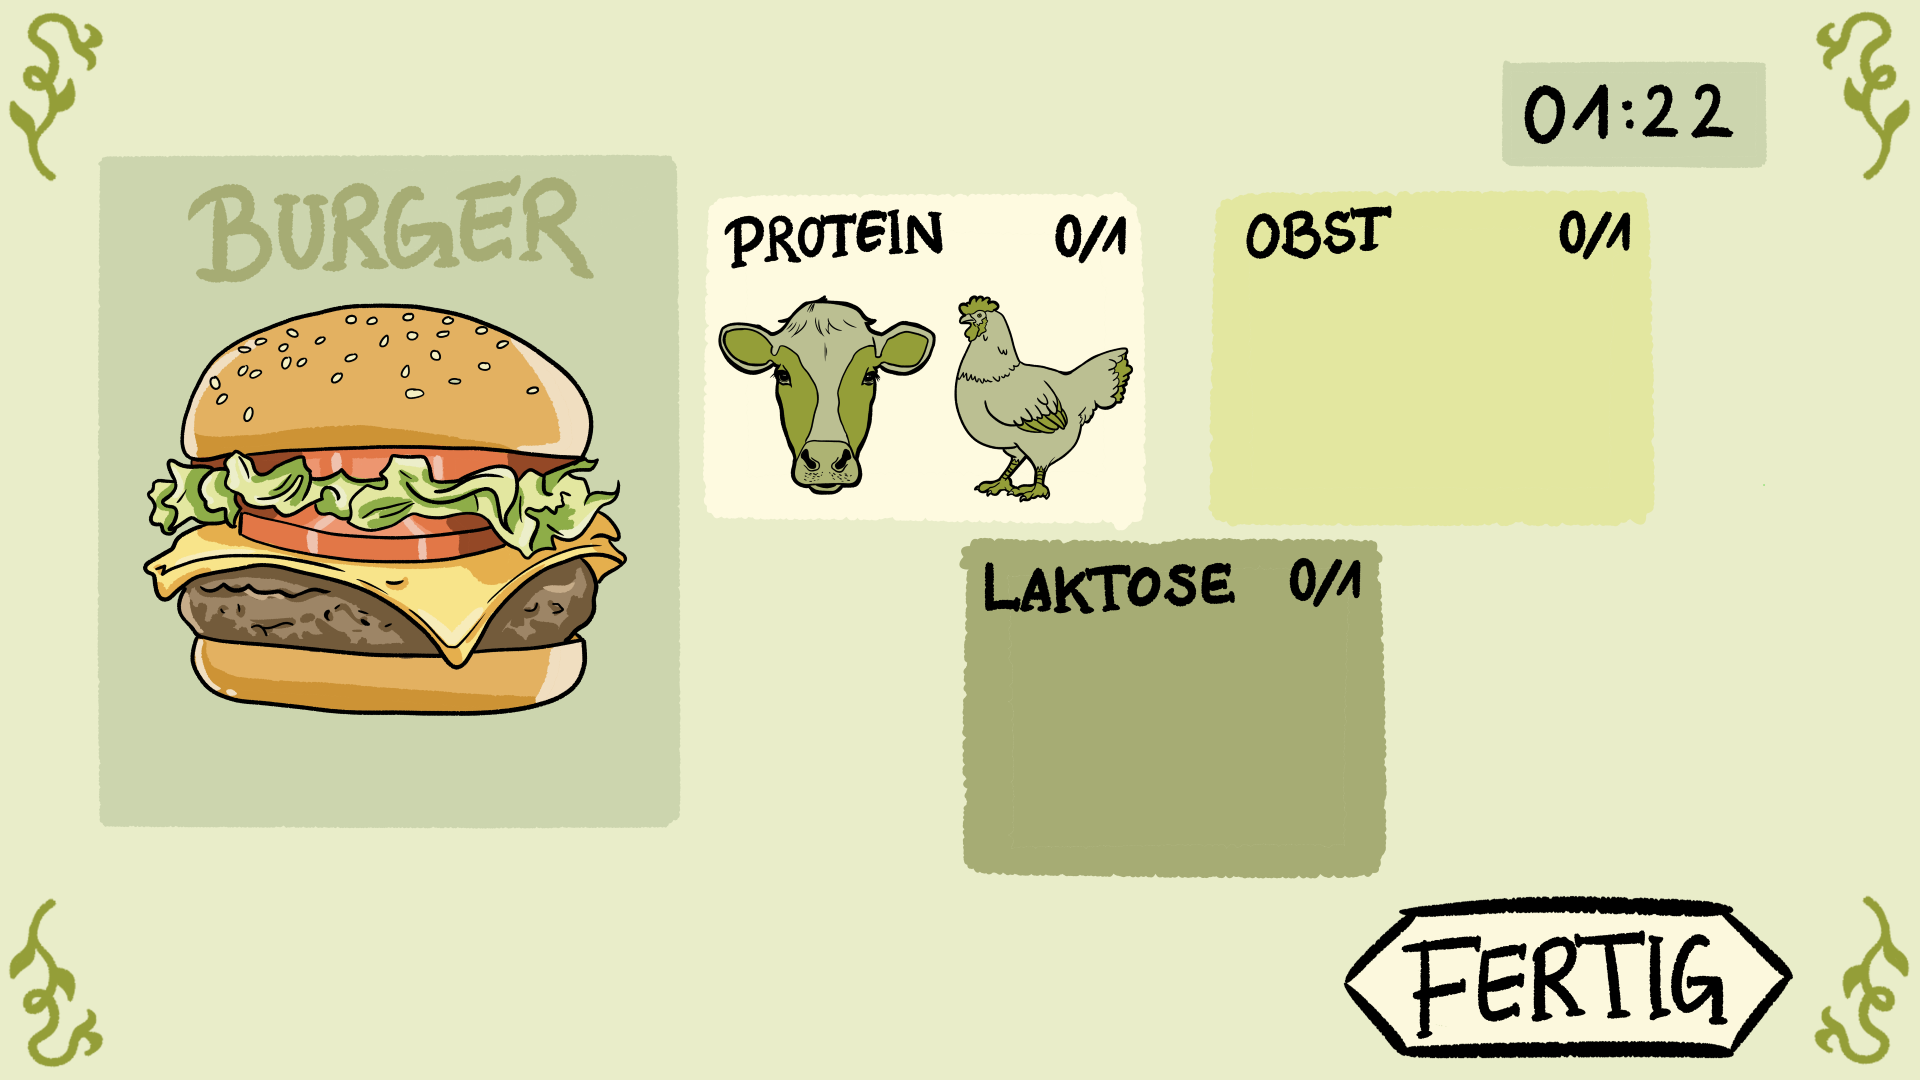
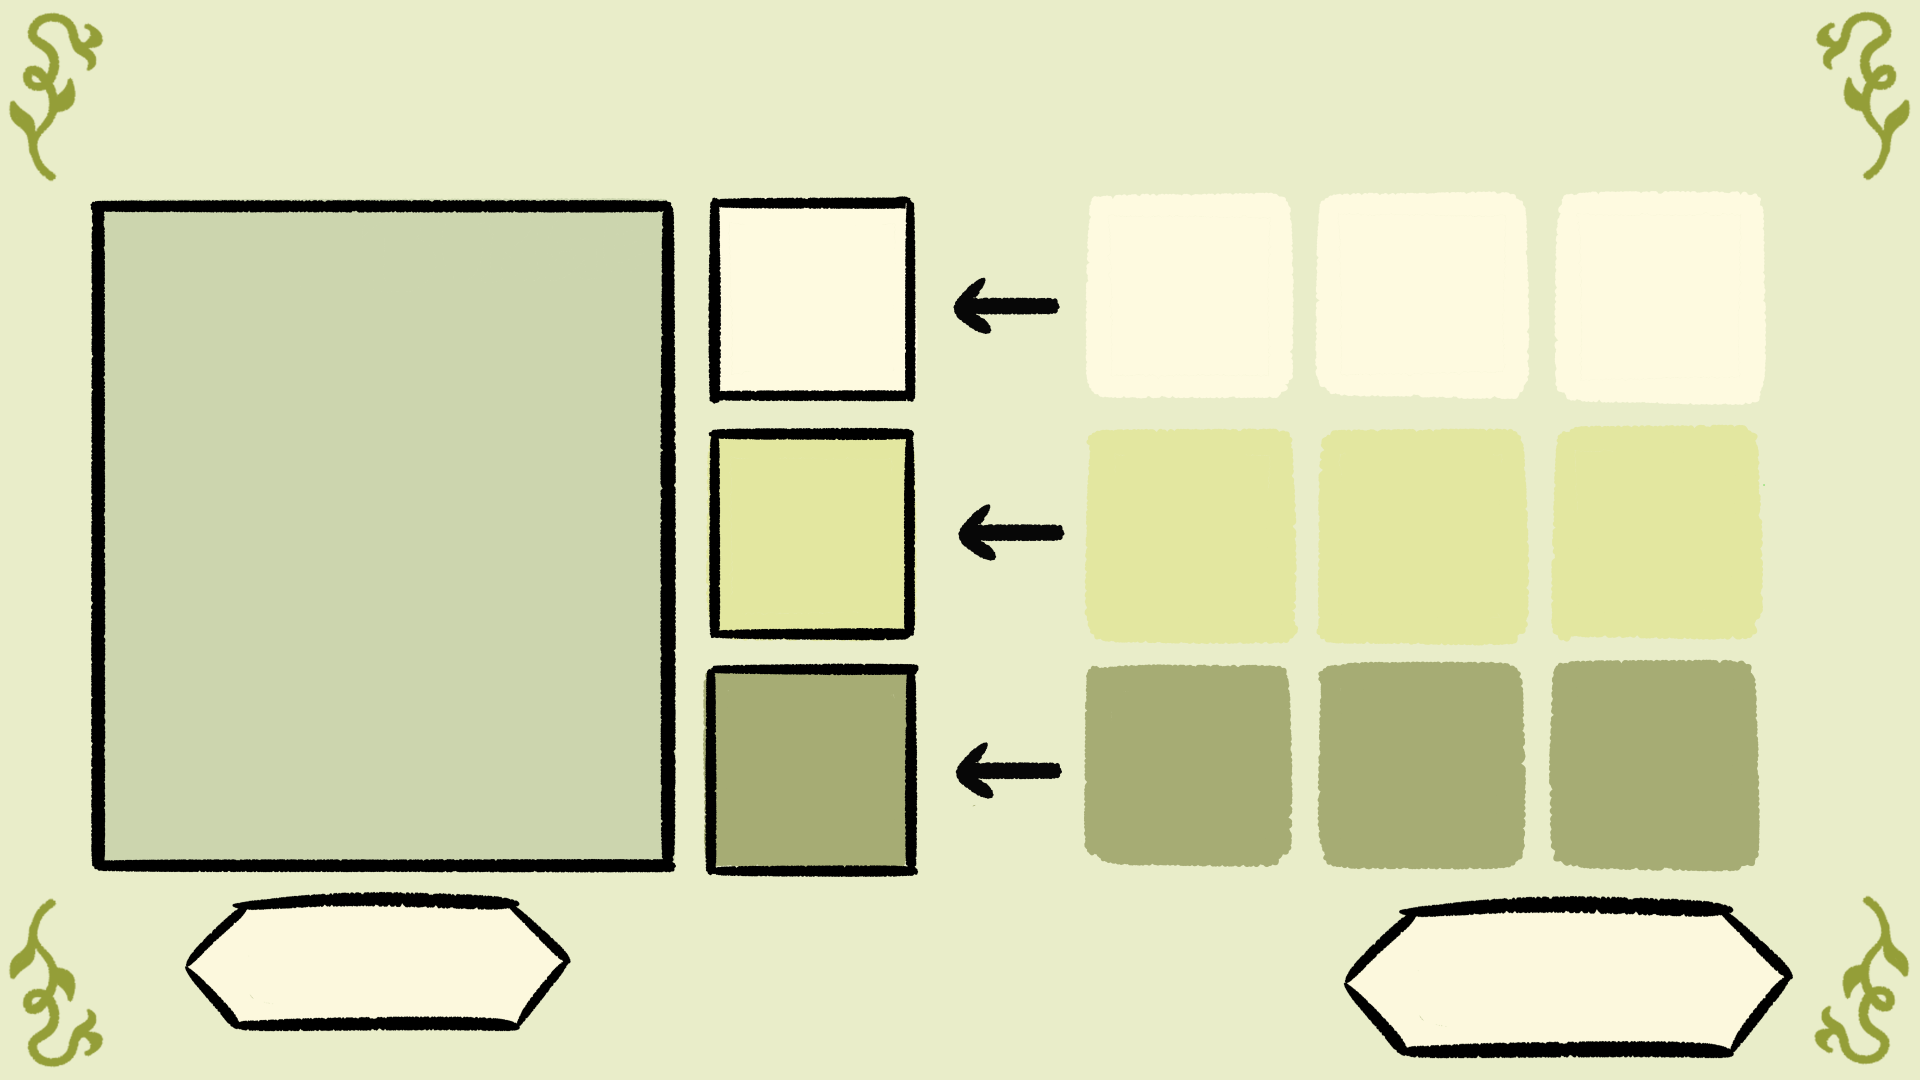
T028 mvp

diff --git a/src/main/java/conserveandcook/view/gui/screens/GameScreen.java b/src/main/java/conserveandcook/view/gui/screens/GameScreen.java
@@ -8,11 +8,13 @@ import conserveandcook.view.gui.AvailableScreens;
 import org.slf4j.Logger;
 import org.slf4j.LoggerFactory;
 
+import java.nio.file.Path;
+
 public class GameScreen extends AbstractScreen {
     private static final Logger log = LoggerFactory.getLogger(GameScreen.class);
 
-    // TODO: (SK) Remove temporary variable
-    private int tmp;
+    private int ingredientIndex = 0;
+    private int prevCategory = 0;
 
     public GameScreen(Gui g) {
         super(g);
@@ -20,14 +22,30 @@ public class GameScreen extends AbstractScreen {
 
     public void draw(Application model) {
         drawBackground("img/game/frame_0.png");
-
-        Ingredient[] ingredients = model.getSelectedIngredients();
-        for (Ingredient ingredient : ingredients) {
-            if (ingredient != null) {
-                drawBorder(ingredient.getCategory());
+        if (model.getSelectedRecipe() == null){
+            try {
+                model.setSelectedRecipe(Recipe.getRandomRecipe());
+            } catch (Exception e) {
+                log.error(e.getMessage(), e);
             }
         }
 
+        Ingredient[] selectedIngredients = model.getSelectedIngredients();
+        Recipe selectedRecipe = model.getSelectedRecipe();
+        if (selectedRecipe != null) {
+            drawRecipe(selectedRecipe);
+            Ingredient[] ingredients = model.getSelectedRecipe().getIngredients();
+
+            for (Ingredient ingredient : ingredients) {
+                drawIngredient(ingredient, selectedRecipe);
+            }
+
+            for (Ingredient ingredient : selectedIngredients) {
+                if (ingredient != null) {
+                    drawSelectedIngredient(ingredient, selectedRecipe);
+                }
+            }
+        }
     }
 
     @Override
@@ -42,47 +60,51 @@ public class GameScreen extends AbstractScreen {
     }
 
     @Override
-    public void up(Application model) {
-        try {
-            model.setSelectedRecipe(Recipe.getRandomRecipe());
-        } catch (Exception e) {
-            log.error(e.getMessage(), e);
-        }
-    }
-
-    @Override
-    public void down(Application model) {
-        // TODO: (SK) Remove temporary code, replace with Scanner-Code
-        if (model.getSelectedRecipe() != null) {
-            model.addSelectedIngredient(model.getSelectedRecipe().getIngredients()[tmp]);
-            tmp = model.incrementWrapped(tmp,2);
-        }
-    }
-
-    @Override
     public AvailableScreens next() {
         return AvailableScreens.NAME;
     }
 
-    private void drawBorder(int category) {
-        String borderPath = "img/game/border.png";
-        double x, y;
-        switch (category) {
-            case 0:
-                x = (double) 690 ;
-                y = (double) 175 ;
-                break;
-            case 1:
-                x = (double) 930 ;
-                y = (double) 535 ;
-                break;
-            case 2:
-                x = (double) 1210;
-                y = (double) 190 ;
-                break;
-            default:
-                return;
+    private void drawIngredient(Ingredient ingredient, Recipe selectedRecipe) {
+        String path = getPathOfImage(ingredient, selectedRecipe);
+
+        int category = ingredient.getCategory();
+        int yOffset = category * 240;
+        int xOffset = ingredientIndex * 230;
+
+        gui.drawImage(path, (1090 + xOffset) * SCALE, (200 + yOffset) * SCALE, SCALE);
+
+        if (category == prevCategory) {
+            ingredientIndex = ingredientIndex + 1 > 3 ? 0 : ingredientIndex + 1;
+        } else {
+            ingredientIndex = 0;
+            prevCategory = category;
         }
-        gui.drawImage(borderPath, x * SCALE, y * SCALE, SCALE);
+    }
+
+    private void drawSelectedIngredient(Ingredient ingredient, Recipe selectedRecipe) {
+        String path = getPathOfImage(ingredient, selectedRecipe);
+
+        int category = ingredient.getCategory();
+        int yOffset = category * 240;
+
+        gui.drawImage(path, (710) * SCALE, (200 + yOffset) * SCALE, SCALE);
+    }
+
+    private static String getPathOfImage(Ingredient ingredient, Recipe selectedRecipe) {
+        String name = ingredient.getName() + ".png";
+        String recipeId = String.valueOf(selectedRecipe.getId());
+
+        String path = Path.of("img/recipe", recipeId, name).toString();
+        path = path.replace('\\', '/');
+        return path;
+    }
+
+    private void drawRecipe(Recipe recipe) {
+        int x = 120, y = 235;
+        String id = String.valueOf(recipe.getId());
+        String path = Path.of("img/recipe", id, "recipe.png").toString();
+        path = path.replace('\\', '/');
+
+        gui.drawImage(path, x * SCALE, y * SCALE, SCALE);
     }
 }

diff --git a/src/test/java/conserveandcook/model/IngredientTest.java b/src/test/java/conserveandcook/model/IngredientTest.java
@@ -1,14 +1,13 @@
 package conserveandcook.model;
 
 import conserveandcook.AbstractTest;
-import org.junit.jupiter.api.BeforeEach;
 import org.junit.jupiter.api.Test;
 
 import static org.junit.jupiter.api.Assertions.*;
 
 public class IngredientTest extends AbstractTest {
-    String testId1 = "644824915043";
-    String testId2 = "4250236825175";
+    String testId1 = "001";
+    String testId2 = "002";
 
     @Test
     public void ingredientTest() {
@@ -18,9 +17,9 @@ public class IngredientTest extends AbstractTest {
             // Act
             i1 = Ingredient.getIngredientById(testId1);
             // Assert
-            assertEquals("Rindfleisch", i1.getName());
+            assertEquals("ananas", i1.getName());
             assertEquals(10, i1.getCo2());
-            assertEquals(0, i1.getCategory());
+            assertEquals(1, i1.getCategory());
         } catch (Exception e) {
             fail(e);
         }
@@ -34,9 +33,9 @@ public class IngredientTest extends AbstractTest {
             // Act
             i2 = Ingredient.getIngredientById(testId2);
             // Assert
-            assertEquals("Poulet", i2.getName());
+            assertEquals("avocado", i2.getName());
             assertEquals(20, i2.getCo2());
-            assertEquals(1, i2.getCategory());
+            assertEquals(2, i2.getCategory());
         } catch (Exception e) {
             fail(e);
         }
@@ -57,6 +56,21 @@ public class IngredientTest extends AbstractTest {
     }
 
     @Test
+    public void invalidBarcodeTest() {
+        // arrange
+        Ingredient i4;
+        String testId4 = "abc";
+
+        try {
+            // Act
+            i4 = Ingredient.getIngredientById(testId4);
+        } catch (Exception e) {
+            // Assert
+            assertTrue(true);
+        }
+    }
+
+    @Test
     public void modelTest() {
         Application model = new Application();
         Ingredient i1, i2;
@@ -66,13 +80,13 @@ public class IngredientTest extends AbstractTest {
             i2 = Ingredient.getIngredientById(testId2);
             model.addSelectedIngredient(i1);
             Ingredient[] selected = model.getSelectedIngredients();
-            assertEquals("Rindfleisch", i1.getName());
-            assertNull(selected[1]);
+            assertEquals("ananas", selected[1].getName());
+            assertNull(selected[0]);
             assertNull(selected[2]);
             model.addSelectedIngredient(i2);
-            assertEquals("Rindfleisch", i1.getName());
-            assertEquals("Poulet", i2.getName());
-            assertNull(selected[2]);
+            assertEquals("ananas", i1.getName());
+            assertEquals("avocado", i2.getName());
+            assertNull(selected[0]);
         } catch (Exception e) {
             fail(e);
         }

diff --git a/src/main/java/conserveandcook/model/Ingredient.java b/src/main/java/conserveandcook/model/Ingredient.java
@@ -4,6 +4,8 @@ import conserveandcook.Database;
 
 import java.sql.ResultSet;
 import java.sql.SQLException;
+import java.util.regex.Matcher;
+import java.util.regex.Pattern;
 
 public class Ingredient {
     private final int id;
@@ -21,6 +23,15 @@ public class Ingredient {
     public static Ingredient getIngredientById(String id) throws SQLException {
         Database db = Database.getInstance();
         String query = "select * from ingredient where id = ? limit 1";
+
+        // Check for three digits
+        Pattern pattern = Pattern.compile("\\d{3}");
+        Matcher matcher = pattern.matcher(id);
+        if (matcher.find()) {
+            id = matcher.group();
+        } else {
+            throw new SQLException("Invalid barcode: No id found");
+        }
         ResultSet results = db.executeQuery(query, id);
 
         // Check if we've got a row
@@ -37,15 +48,16 @@ public class Ingredient {
 
     public static Ingredient[] getIngredientsByRecipe(int recipeId) throws SQLException {
         Database db = Database.getInstance();
-        String query = "select * from ingredient where recipe_id = ? limit 3";
+        int ingredientCount = 9;
+        String query = "select * from ingredient where recipe_id = ? order by category_id limit 9;";
         ResultSet results = db.executeQuery(query, recipeId);
-        Ingredient[] ingredients = new Ingredient[3];
+        Ingredient[] ingredients = new Ingredient[ingredientCount];
 
         int index = 0;
-        if(results == null) {
+        if (results == null) {
             throw new SQLException("Exactly three ingredients were expected, received zero");
         }
-        while (results.next()) {
+        while (results.next() && index < ingredientCount) {
             ingredients[index] = new Ingredient
                     (
                             results.getInt(1),
@@ -68,5 +80,9 @@ public class Ingredient {
 
     public int getCategory() {
         return category;
+    }
+
+    public int getId() {
+        return id;
     }
 }

diff --git a/src/main/java/conserveandcook/model/Application.java b/src/main/java/conserveandcook/model/Application.java
@@ -1,11 +1,9 @@
 package conserveandcook.model;
 
+import conserveandcook.misc.Languages;
 import conserveandcook.misc.Regions;
 import conserveandcook.view.gui.AvailableScreens;
-import conserveandcook.misc.Languages;
-import conserveandcook.view.gui.screens.*;
-import org.slf4j.Logger;
-import org.slf4j.LoggerFactory;
+import conserveandcook.view.gui.screens.AbstractScreen;
 
 import java.util.HashMap;
 import java.util.Map;

diff --git a/src/main/java/conserveandcook/model/Recipe.java b/src/main/java/conserveandcook/model/Recipe.java
@@ -43,5 +43,9 @@ public class Recipe {
     public String getName() {
         return name;
     }
+
+    public int getId() {
+        return id;
+    }
 }
 
